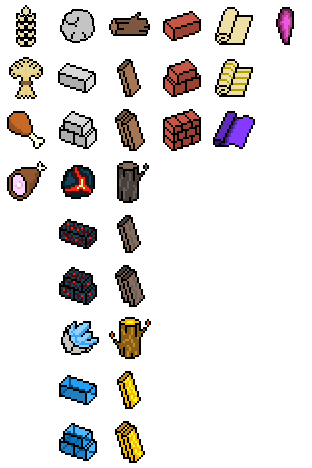
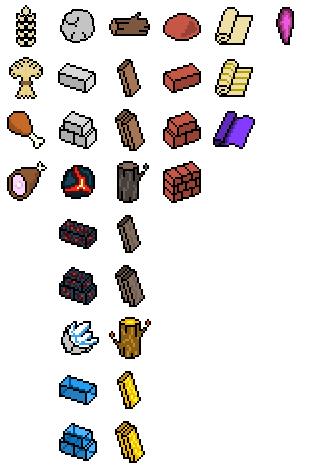
Added top level bricklayer

Changed region(s): [[0.5192, 0.1197, 0.6635, 0.4487], [0.5192, 0.0, 0.6635, 0.0897], [0.2019, 0.688, 0.3173, 0.7479]]

diff --git a/www/js/app/gamecontent.js b/www/js/app/gamecontent.js
@@ -224,7 +224,7 @@ define({
 			cost: {
 				stone: 2,
 				wood: 2,
-				cloth: 1,
+				cloth: 2,
 				clay: 8
 			},
 			requiredLevel: 1,
@@ -233,6 +233,23 @@ define({
 			replaces: 'bricklayer2',
 			defaultAnimation: 2,
 			priority: 6
+		},
+		
+		Bricklayer4: {
+			className: 'bricklayer4',
+			position: 90,
+			cost: {
+				stone: 4,
+				wood: 4,
+				cloth: 4,
+				clay: 12
+			},
+			requiredLevel: 1,
+			tileMod: 'clay',
+			tileLevel: 3,
+			replaces: 'bricklayer3',
+			defaultAnimation: 3,
+			priority: 8
 		},
 		
 		Weaver: {

diff --git a/www/css/main.css b/www/css/main.css
@@ -495,6 +495,10 @@ body.night {
 	background-position: -156px -104px;
 }
 
+.clay4 .tile.clay > div {
+	background-position: -156px -156px;
+}
+
 .tile.cloth > div {
 	background-position: -208px 0px;
 }
@@ -592,13 +596,15 @@ body.night {
 
 .bricklayer,
 .bricklayer2,
-.bricklayer3 {
+.bricklayer3,
+.bricklayer4 {
 	background-image: url(../img/bricklayer.png);
 }
 
 .weaver,
 .weaver2,
-.weaver3 {
+.weaver3,
+.weaver4 {
 	background-image: url(../img/weaver.png);
 }
 
